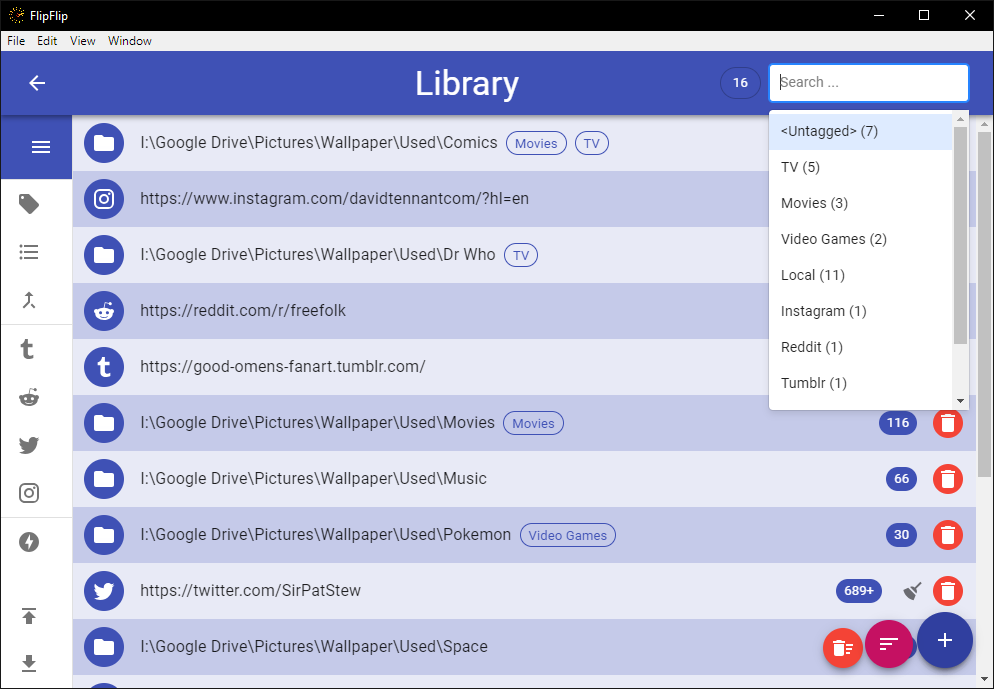
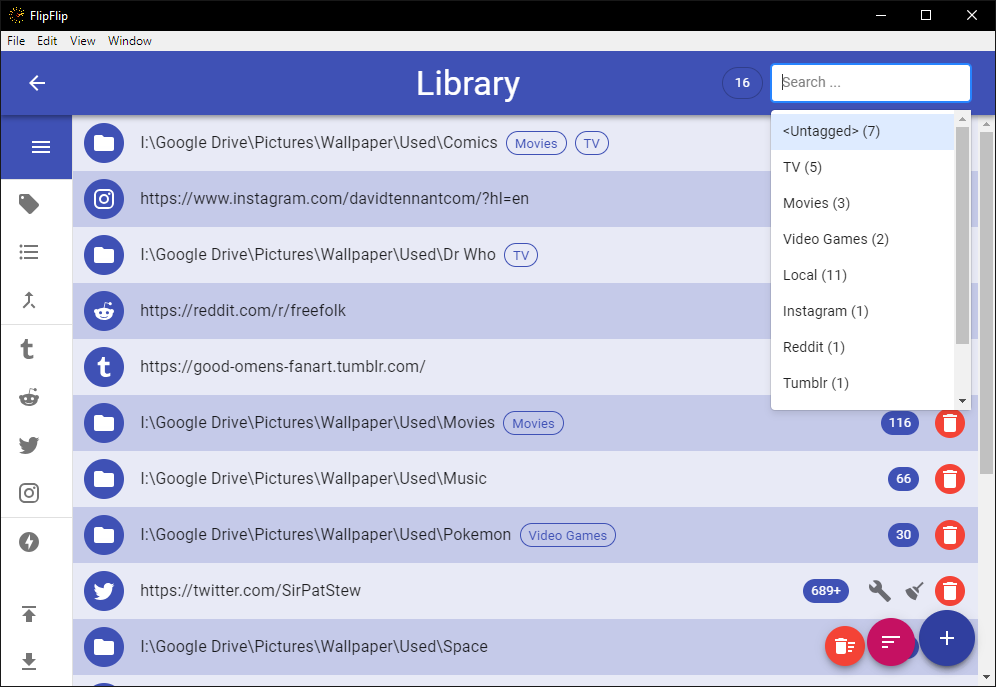
Add Twitter feed options

diff --git a/src/renderer/components/library/SourceList.tsx b/src/renderer/components/library/SourceList.tsx
@@ -7,9 +7,9 @@ import {FixedSizeList} from "react-window";
 import clsx from "clsx";
 
 import {
-  Button, createStyles, Dialog, DialogActions, DialogContent, DialogContentText, FormControl, IconButton,
-  InputAdornment, InputLabel, Link, List, ListItemSecondaryAction, ListItemText, Menu, MenuItem, Select, Switch,
-  TextField, Theme, Tooltip, Typography, withStyles
+  Button, createStyles, Dialog, DialogActions, DialogContent, DialogContentText, FormControl, FormControlLabel,
+  IconButton, InputAdornment, InputLabel, Link, List, ListItemSecondaryAction, ListItemText, Menu, MenuItem,
+  Select, Switch, TextField, Theme, Tooltip, Typography, withStyles
 } from "@material-ui/core";
 
 import FolderIcon from "@material-ui/icons/Folder";
@@ -234,7 +234,7 @@ class SourceList extends React.Component {
                       </Tooltip>
                     </InputAdornment>,
                 }}
-                onChange={this.onChangSubtitleFile.bind(this)}
+                onChange={this.onSourceInput.bind(this, 'subtitleFile')}
               />
             </DialogContent>
           </Dialog>
@@ -253,7 +253,7 @@ class SourceList extends React.Component {
                 <Select
                   disabled={this.state.sourceOptions.url.includes("/user/") || this.state.sourceOptions.url.includes("/u/")}
                   value={this.state.sourceOptions.redditFunc == null ? RF.hot : this.state.sourceOptions.redditFunc}
-                  onChange={this.onChangeRedditFunc.bind(this)}>
+                  onChange={this.onSourceInput.bind(this, 'redditFunc')}>
                   {Object.values(RF).map((rf) =>
                     <MenuItem key={rf} value={rf}>{en.get(rf)}</MenuItem>
                   )}
@@ -264,7 +264,7 @@ class SourceList extends React.Component {
                   className={classes.fullWidth}
                   disabled={this.state.sourceOptions.url.includes("/user/") || this.state.sourceOptions.url.includes("/u/")}
                   value={this.state.sourceOptions.redditTime == null ? RT.day : this.state.sourceOptions.redditTime}
-                  onChange={this.onChangeRedditTime.bind(this)}>
+                  onChange={this.onSourceInput.bind(this, 'redditTime')}>
                   {Object.values(RT).map((rt) =>
                     <MenuItem key={rt} value={rt}>{en.get(rt)}</MenuItem>
                   )}
@@ -272,6 +272,34 @@ class SourceList extends React.Component {
               )}
               {(this.state.sourceOptions.url.includes("/user/") || this.state.sourceOptions.url.includes("/u/")) &&
               <DialogContentText>This only applies to subreddits, not user profiles</DialogContentText>}
+            </DialogContent>
+          </Dialog>
+        )}
+        {this.state.sourceOptionsType == ST.twitter && (
+          <Dialog
+            open={this.state.sourceOptionsType == ST.twitter}
+            onClose={this.onCloseSourceOptions.bind(this)}
+            aria-describedby="twitter-options-description">
+            <DialogContent>
+              <DialogContentText id="twitter-options-description">
+                Twitter Options ({this.state.sourceOptions.url})
+              </DialogContentText>
+              <FormControlLabel
+                control={
+                  <Switch
+                    size="small"
+                    checked={this.state.sourceOptions.includeReplies}
+                    onChange={this.onSourceBoolInput.bind(this, 'includeReplies')}/>
+                }
+                label="Include Replies"/>
+              <FormControlLabel
+                control={
+                  <Switch
+                    size="small"
+                    checked={this.state.sourceOptions.includeRetweets}
+                    onChange={this.onSourceBoolInput.bind(this, 'includeRetweets')}/>
+                }
+                label="Include Retweets"/>
             </DialogContent>
           </Dialog>
         )}
@@ -439,31 +467,28 @@ class SourceList extends React.Component {
   onOpenSubtitleFile() {
     let result = remote.dialog.showOpenDialog(remote.getCurrentWindow(), {filters: [{name:'All Files (*.*)', extensions: ['*']}, {name: 'Web Video Text Tracks (WebVTT)', extensions: ['vtt']}], properties: ['openFile']});
     if (!result || !result.length) return;
-    this.onSetSubtitleFile(result[0]);
+    this.changeKey('subtitleFile', result[0]);
   }
 
-  onChangSubtitleFile(e: MouseEvent) {
-    this.onSetSubtitleFile((e.target as HTMLInputElement).value);
+  onSourceInput(key: string, e: MouseEvent) {
+    const input = (e.target as HTMLInputElement);
+    this.changeKey(key, input.value);
   }
 
-  onSetSubtitleFile(subtitleFile: string) {
+  onSourceBoolInput(key: string, e: MouseEvent) {
+    const input = (e.target as HTMLInputElement);
+    const checked = input.checked;
+    this.changeKey(key, checked);
+  }
+
+  changeKey(key: string, value: any) {
+    this.update((s) => s[key] = value);
+  }
+
+  update(fn: (librarySource: any) => void) {
     let sources = this.props.sources;
     let source = sources.find((s) => s.url == this.state.sourceOptions.url);
-    source.subtitleFile = subtitleFile;
-    this.props.onUpdateSources(sources);
-  }
-
-  onChangeRedditFunc(e: MouseEvent) {
-    let sources = this.props.sources;
-    let source = sources.find((s) => s.url == this.state.sourceOptions.url);
-    source.redditFunc = (e.target as HTMLInputElement).value;
-    this.props.onUpdateSources(sources);
-  }
-
-  onChangeRedditTime(e: MouseEvent) {
-    let sources = this.props.sources;
-    let source = sources.find((s) => s.url == this.state.sourceOptions.url);
-    source.redditTime = (e.target as HTMLInputElement).value;
+    fn(source);
     this.props.onUpdateSources(sources);
   }
 

diff --git a/src/renderer/components/player/SourceScraper.tsx b/src/renderer/components/player/SourceScraper.tsx
@@ -794,8 +794,9 @@ function loadImgur(systemMessage: Function, config: Config, source: LibrarySourc
 function loadTwitter(systemMessage: Function, config: Config, source: LibrarySource, filter: string, helpers: {next: any, count: number}): CancelablePromise {
   let configured = config.remoteSettings.twitterAccessTokenKey != "" && config.remoteSettings.twitterAccessTokenSecret != "";
   if (configured) {
-    const excludeRTS = source.url.endsWith("--");
-    const url = source.url.replace("--", "");
+    const includeRetweets = source.includeRetweets;
+    const includeReplies = source.includeReplies;
+    const url = source.url;
     return new CancelablePromise((resolve) => {
       const twitter = new Twitter({
         consumer_key: config.remoteSettings.twitterConsumerKey,
@@ -804,7 +805,7 @@ function loadTwitter(systemMessage: Function, config: Config, source: LibrarySou
         access_token_secret: config.remoteSettings.twitterAccessTokenSecret,
       });
       twitter.get('statuses/user_timeline',
-        helpers.next == 0 ? {screen_name: getFileGroup(url), count: 200, include_rts: !excludeRTS, tweet_mode: 'extended'} : {screen_name: getFileGroup(url), count: 200, include_rts: !excludeRTS, tweet_mode: 'extended', max_id: helpers.next},
+        helpers.next == 0 ? {screen_name: getFileGroup(url), count: 200, exclude_replies: !includeReplies, include_rts: includeRetweets, tweet_mode: 'extended'} : {screen_name: getFileGroup(url), count: 200, exclude_replies: !includeReplies, include_rts: includeRetweets, tweet_mode: 'extended', max_id: helpers.next},
         (error: any, tweets: any) => {
         if (error) {
           resolve(null);

diff --git a/src/renderer/data/LibrarySource.tsx b/src/renderer/data/LibrarySource.tsx
@@ -20,6 +20,9 @@ export default class LibrarySource {
   // Reddit
   redditFunc: string;
   redditTime: string;
+  // Twitter
+  includeRetweets: boolean = false;
+  includeReplies: boolean = false;
 
   constructor(init?: Partial<LibrarySource>) {
     Object.assign(this, init);

diff --git a/docs/sources.md b/docs/sources.md
@@ -58,7 +58,8 @@ Click `+` and choose one of the following options:
 alt="Options" width="20" height="20">
   * This will only show up for certain types of sources:
     * _**Video** - specify a subtitle file_
-    * _**Reddit**_ - specify feed for subreddits (i.e. "Hot", "Top", "New", etc.)
+    * _**Reddit** - specify feed for subreddits (i.e. "Hot", "Top", "New", etc.)_
+    * _**Twitter** - include/exclude retweets and replies_
 * To edit the blacklist for a source, click the <img style="vertical-align: -5px" src="doc_icons/blacklist.svg" 
 alt="Blacklist" width="20" height="20">
   * _This will only appear for sources which have a blacklist._

diff --git a/docs/changelog.md b/docs/changelog.md
@@ -11,7 +11,8 @@
 - Allow RANDOM_PHRASE and TAG_PHRASE to work with blink
 - Add display count to Library
 - Add progress display on taskbar
-- Add options for Reddit feed
+- Add options for Reddit feeds
+- Add options for Twitter feeds
 - Add ability to view and edit blacklist
 - Fix blacklisting
 - Fix bug with clip loading
